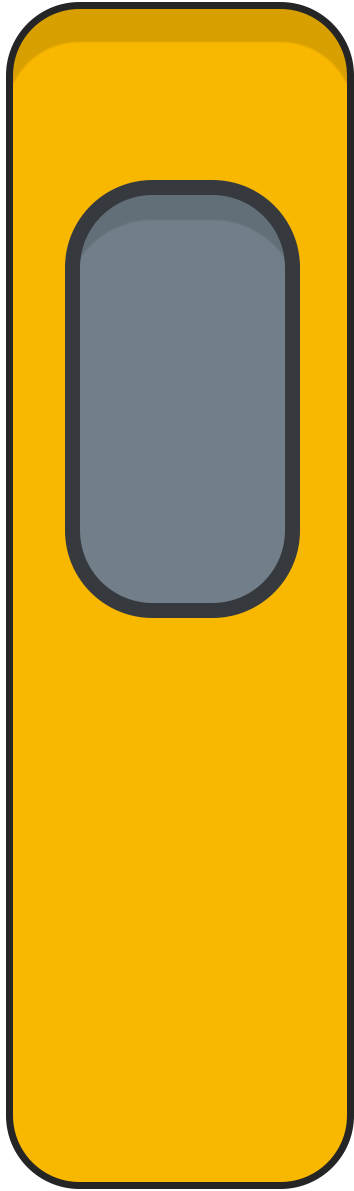
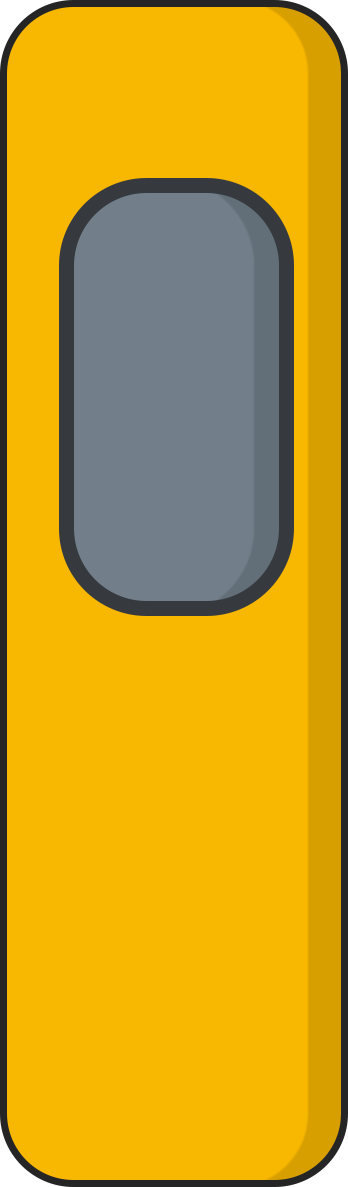
Placing sprites initially

diff --git a/client/src/components/Waiting/Themes/TrainBackground.tsx b/client/src/components/Waiting/Themes/TrainBackground.tsx
@@ -1,8 +1,16 @@
 import React from "react"
 import "./TrainBackground.css"
 
+// Sprites for team preview
+import TrainDoorLeft from "../../../img/team_preview/train/door_left.png"
+import TrainDoorRight from "../../../img/team_preview/train/door_right.png"
+import TrainWindows from "../../../img/team_preview/train/train_windows_stripe.png"
+import TrainStripe from "../../../img/team_preview/train/train_stripe.png"
+import ConductorDoor from "../../../img/team_preview/train/conductor_door.png"
+
 interface Props {
     includeRail: boolean
+    isTeamPreview?: boolean
 }
 
 export default function TrainBackground(props: Props) {
@@ -44,7 +52,20 @@ export default function TrainBackground(props: Props) {
                 <div>
                     <div className="sliding-background-clouds"></div>
                     <div className="background-train-track"></div>
-                </div> : null}
+                </div> 
+            : null
+            }
+
+            {props.isTeamPreview ? 
+                <div className="train-theme-overlay">
+                    <div className="overlay-background-color"></div>
+                    <img src={TrainWindows} className="train-windows" alt="Train windows" />
+                    <img src={TrainStripe} className="train-stripe" alt="Train stripe" />
+                    <img src={TrainDoorLeft} className="train-door-left" alt="Left train door" />
+                    <img src={TrainDoorRight} className="train-door-right" alt="Right train door" />
+                    <img src={ConductorDoor} className="conductor-door" alt="Conductor door" />
+                </div> 
+            : null}
         </div>
     )
 }

diff --git a/client/src/components/Waiting/Themes/TrainBackground.css b/client/src/components/Waiting/Themes/TrainBackground.css
@@ -11,6 +11,7 @@
     width: 100%;
     height: 100vh;
     z-index: -3;
+    overflow: hidden;
 }
 
 .sliding-background-clouds {
@@ -39,6 +40,63 @@
     z-index: 0;
     animation: slide-bckground 5s linear infinite;
     animation-direction: reverse;
+}
+
+.train-theme-overlay {
+    position: absolute;
+    top: 0;
+    left: 0;
+    width: 100%;
+    height: 100%;
+
+    transform: translateX(0);
+}
+
+.overlay-background-color {
+    background-color: #F8B700;
+    position: absolute;
+    top: 0;
+    height: 100%;
+    width: 300%;
+    left: -100%;
+    z-index: -1000;
+}
+
+.train-theme-overlay img {
+    position: absolute;
+    height: auto; /* Maintain aspect ratio */
+}
+
+.train-windows {
+    width: 52%;
+    top: 60%;
+    left: -65%;
+}
+
+.train-stripe {
+    width: 141%;
+    top: -12.5%;
+    left: -65.2%;
+}
+
+.train-door-left {
+    transform-origin: right center;
+    width: 18%;
+    top: 15%;
+    left: 32.1%;
+}
+
+.train-door-right {
+    transform-origin: left center;
+    width: 18%;
+    top: 15%;
+    right: 32.1%;
+}
+
+.conductor-door {
+    width: 12%;
+    top: 18%;
+    right: 2%;
 }
 
 @keyframes slide-clouds {

diff --git a/client/src/components/RaceThemes/TeamPreview/TeamPreview.tsx b/client/src/components/RaceThemes/TeamPreview/TeamPreview.tsx
@@ -97,7 +97,7 @@ function TeamPreview(props: Props) {
     return(
         <div className="team-preview-body">
             <motion.div className="page-content" initial={{ filter: "blur(0px)" }} animate={{ filter: startCountdown ? "blur(2px)" : "blur(0px)"}}>
-                <TrainBackground includeRail={false}/>
+                <TrainBackground includeRail={false} isTeamPreview={true}/>
                 <a.div className="team-preview-title">
                     <a.div style={titleAnimation}>
                         {props.topic}

diff --git a/client/src/components/RaceThemes/TeamPreview/TeamPreview.css b/client/src/components/RaceThemes/TeamPreview/TeamPreview.css
@@ -8,7 +8,7 @@
     font-size: 55px;
     font-weight: 600;
     padding: 0.7rem 0rem;
-    background-color: #F8B700;
+    background-color: #0c2340;
     border-bottom: 5px solid #0063D3;
 
 }
